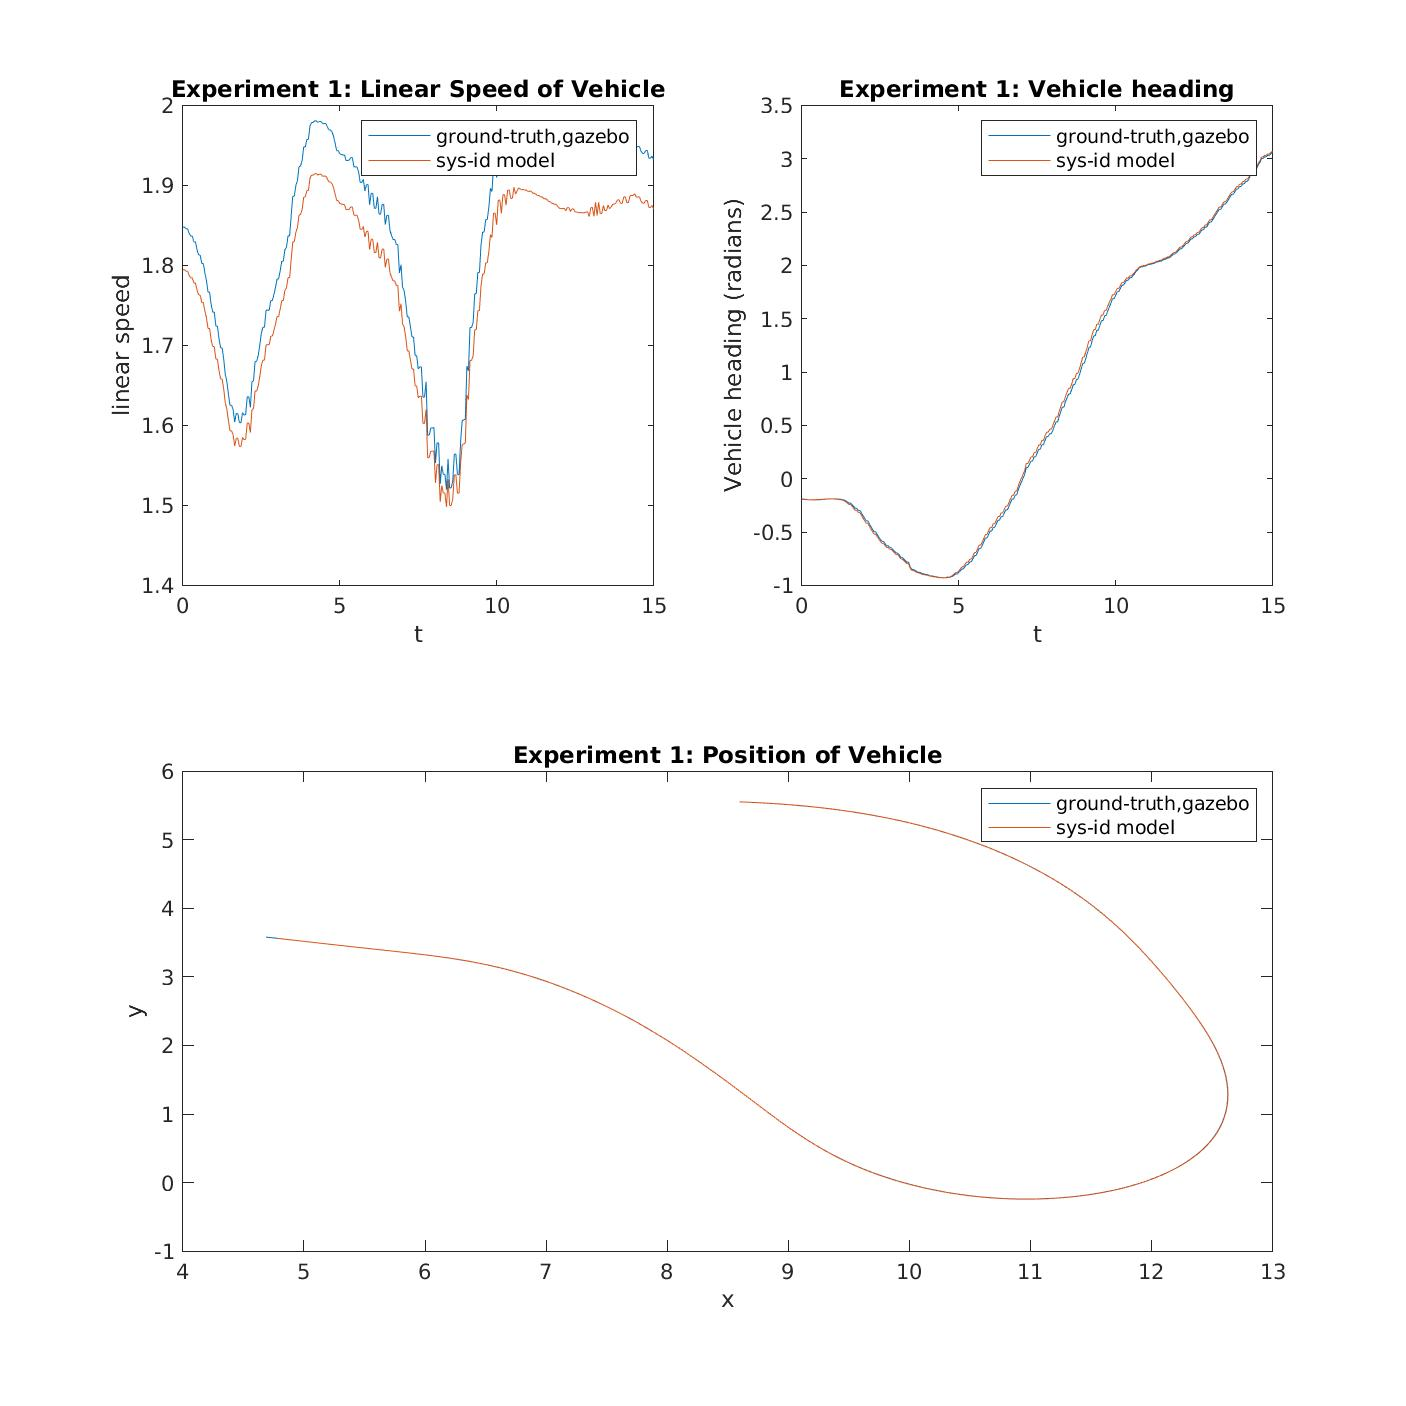
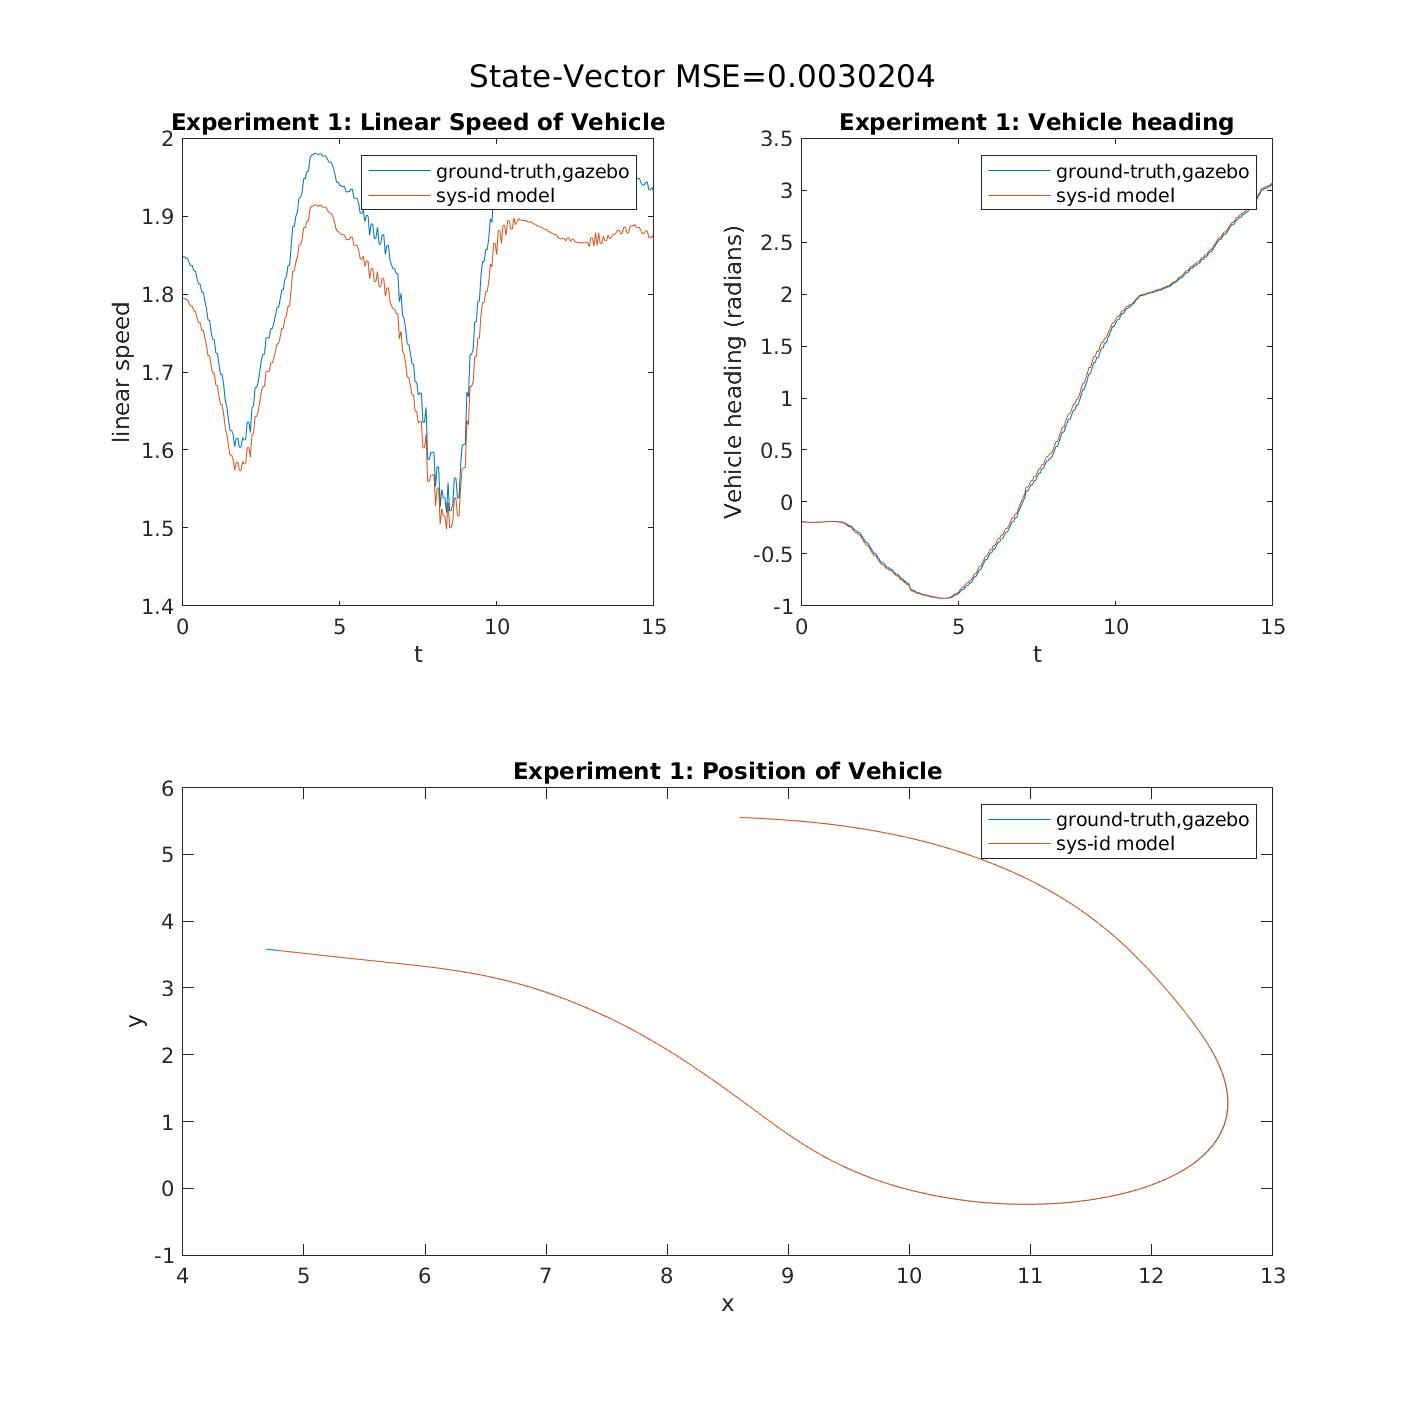
add validation plots and scripts

diff --git a/src/race/sys_id/validate_experiment.m b/src/race/sys_id/validate_experiment.m
@@ -15,6 +15,9 @@ end
 xe =cell2mat(xe);
 % plot the results
 
+
+err = immse(x,xe);
+
 fig= figure();
 set(gcf, 'Position',  [100, 100, 900, 900])
 subplot(2,2,1);
@@ -45,6 +48,7 @@ xlabel('x')
 ylabel('y') 
 title("Experiment 1: Position of Vehicle")
 legend
+sgtitle(strcat('State-Vector MSE=',string(err)))
 figname = split(strrep(csv_filename,'csv/',''),".");
 savename = strcat("plots/",figname(1),".jpg");
 saveas(fig,savename);
